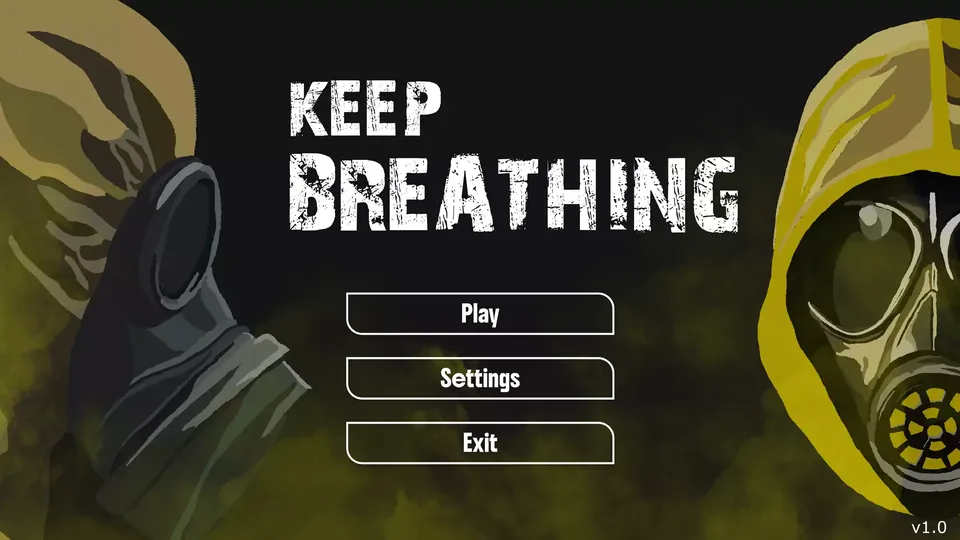
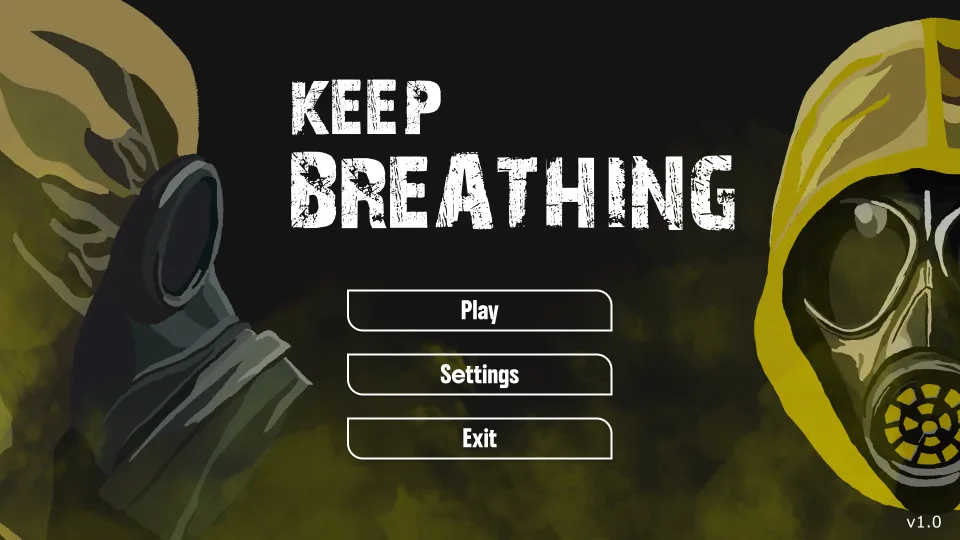
A5/A6 Keep Breathing: sharp Figma exports replace the low-resolution captures (same frames, same file names); the gameplay image also carries the Maquette Figma label
The gameplay caption was Ale's sentence 'The cliche pattern is what led me to
the gas mask...', which is already in Le detail (listed in NOTAS).

Claude-Session: https://claude.ai/code/session_01JxbepuWNecFknTgEWmrBVy

diff --git a/_projects/keepBreathing.md b/_projects/keepBreathing.md
@@ -18,21 +18,23 @@ case_layout: c
 summary: When the jury was coming to our table, our game was split across 3 PCs.
 project_type: Survival FPS, game jam
 hero_image: /assets/img/KeepBreathing/keep-breathing-main-menu.webp
-hero_w: 1920
-hero_h: 1080
+hero_w: 2400
+hero_h: 1350
 hero_alt: Keep Breathing main menu, dark sci-fi corridor with the game title
 preload_image: /assets/img/KeepBreathing/keep-breathing-main-menu.webp
-preload_srcset: "/assets/img/KeepBreathing/keep-breathing-main-menu-960w.webp 960w, /assets/img/KeepBreathing/keep-breathing-main-menu.webp 1920w"
+preload_srcset: "/assets/img/KeepBreathing/keep-breathing-main-menu-960w.webp 960w, /assets/img/KeepBreathing/keep-breathing-main-menu.webp 2400w"
 preload_sizes: "100vw"
-# The menu, pause and game over images are Figma mockups made for the jury, not
-# captures of the game: each one carries the kb_figma label (Ale, 2026-11-12).
+# The menu, pause, game over and gameplay images are Figma mockups made for the jury,
+# not captures of the game: each one carries the kb_figma label (Ale, 2026-11-12).
+# Sharp 2x exports from Figma-png-UI Game Keep Breathing.zip, same file names.
 hero_label: kb_figma
 ---
-{% include case/figure.html src="/assets/img/KeepBreathing/keep-breathing-gameplay-screen.webp" w=1920 h=1080 alt="Keep Breathing gameplay, first-person view with the gas mask on the floor and the oxygen and health bars" caption="The cliché pattern is what led me to the gas mask, which seemed more original, and easy to make with the survival idea." %}
+{% capture kb_note %}{% include label.html key="kb_figma" %}{% endcapture %}
+{% include case/figure.html src="/assets/img/KeepBreathing/keep-breathing-gameplay-screen.webp" w=1600 h=900 alt="Keep Breathing gameplay, first-person view with the gas mask on the floor between wooden crates, the Equip Mask prompt and the health and oxygen bars" caption=kb_note %}
 
 <h2>What I made</h2>
 
-{% include case/pair.html a="/assets/img/KeepBreathing/keep-breathing-menu-pause.webp" a_alt="Keep Breathing pause menu overlay" a_w=1920 a_h=1080 a_caption="Pause Menu Overlay" b="/assets/img/KeepBreathing/keep-breathing-game-over.webp" b_alt="Keep Breathing game over screen" b_w=1920 b_h=1080 b_caption="Game Over Screen" %}
+{% include case/pair.html a="/assets/img/KeepBreathing/keep-breathing-menu-pause.webp" a_alt="Keep Breathing pause menu: time passed, Resume, Settings and Exit, with the controls" a_w=1600 a_h=900 a_caption="Pause Menu Overlay" b="/assets/img/KeepBreathing/keep-breathing-game-over.webp" b_alt="Keep Breathing game over screen between two gas mask illustrations: Retry, Main Menu and Exit" b_w=1600 b_h=900 b_caption="Game Over Screen" %}
 
 <p class="c-note">{% include label.html key="kb_figma" %}</p>
 
@@ -78,7 +80,7 @@ hero_label: kb_figma
 </ul>
 <p>The screens that made it into the game: main menu, an in-game HUD with oxygen and health bars, interaction prompts, a pause menu and game over.</p>
 {% capture kb_cap %}Main Menu Design. {% include label.html key="kb_figma" %}{% endcapture %}
-{% include case/figure.html src="/assets/img/KeepBreathing/keep-breathing-main-menu.webp" w=1920 h=1080 alt="Keep Breathing main menu UI with industrial aesthetic" caption=kb_cap %}
+{% include case/figure.html src="/assets/img/KeepBreathing/keep-breathing-main-menu.webp" w=2400 h=1350 alt="Keep Breathing main menu UI with industrial aesthetic" caption=kb_cap %}
 
 <h3>The build wouldn't compile</h3>
 <p>In the last hours, when we put everything together, it wouldn't compile properly. That left us with the game split across 3 PCs.</p>
